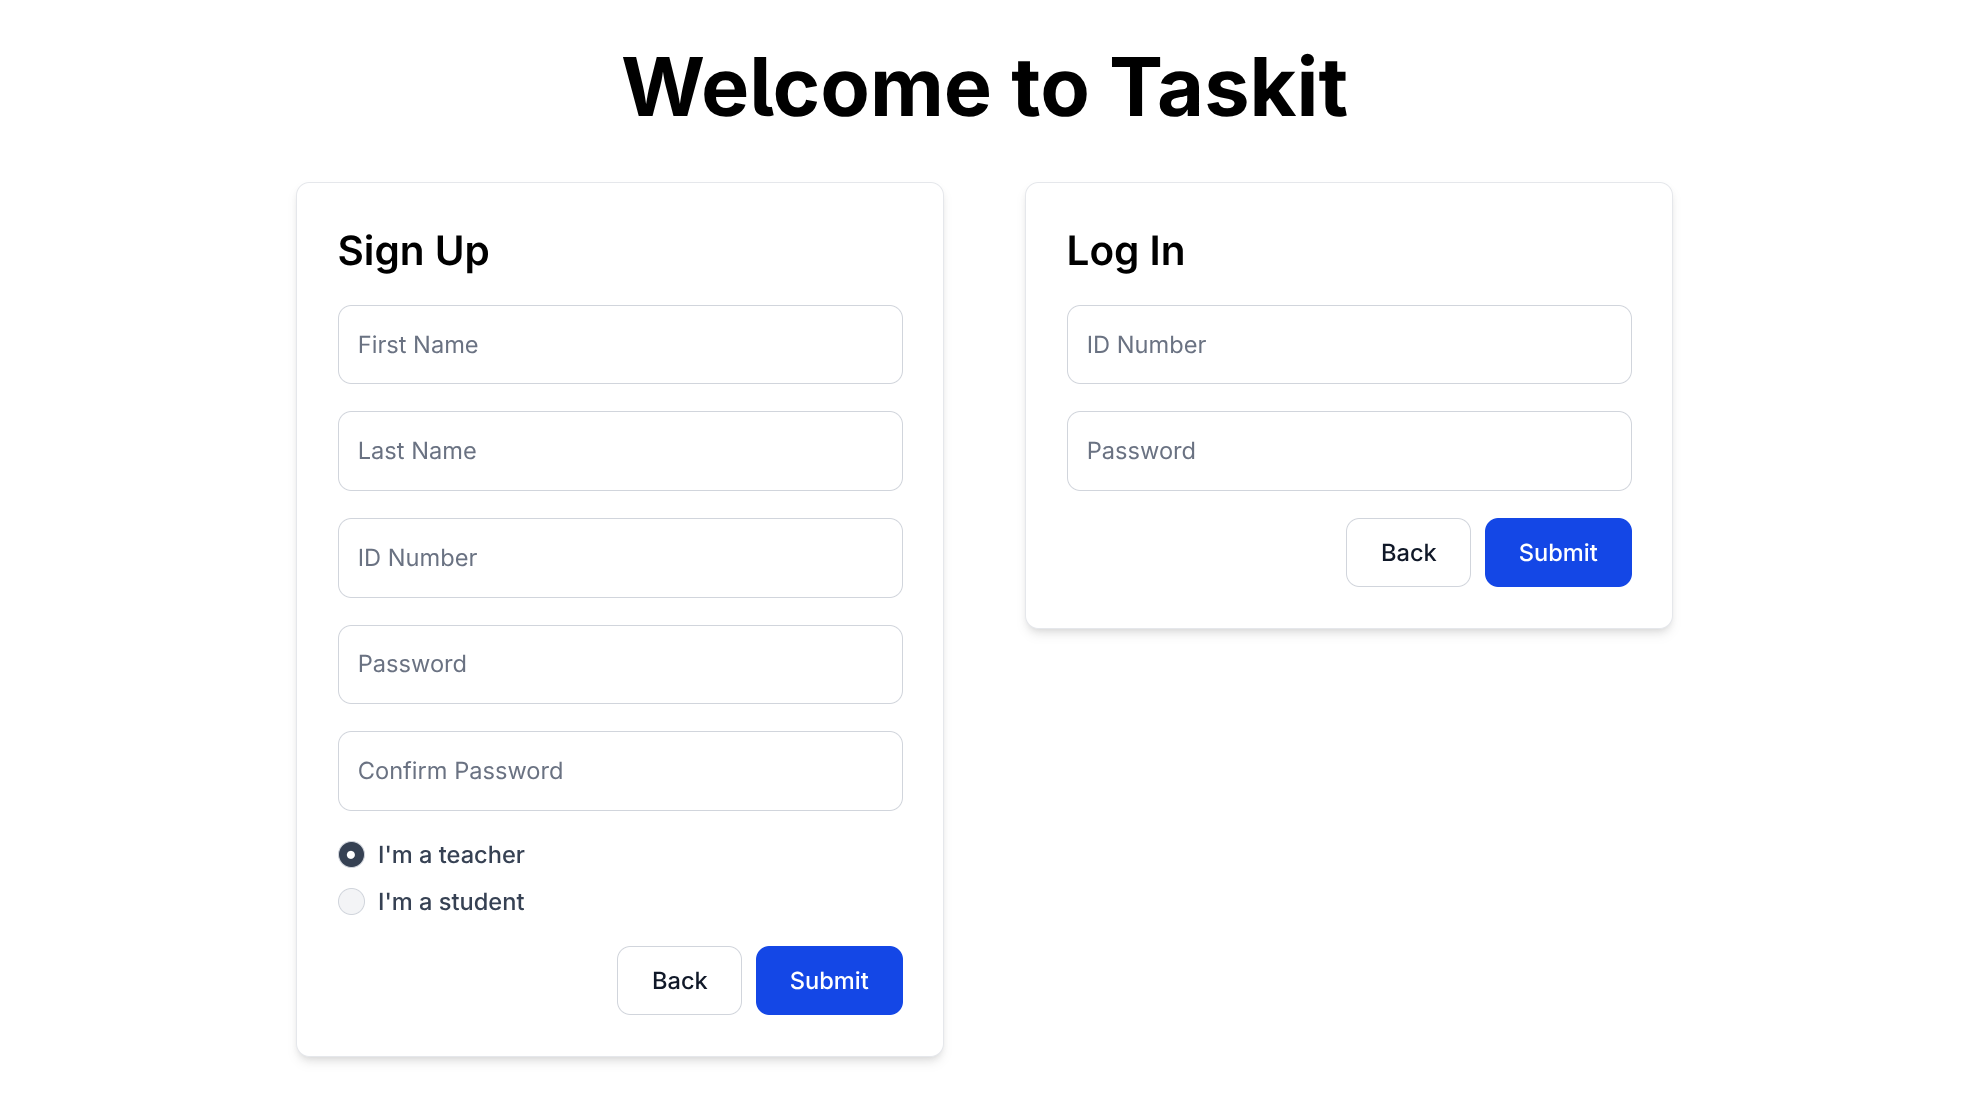
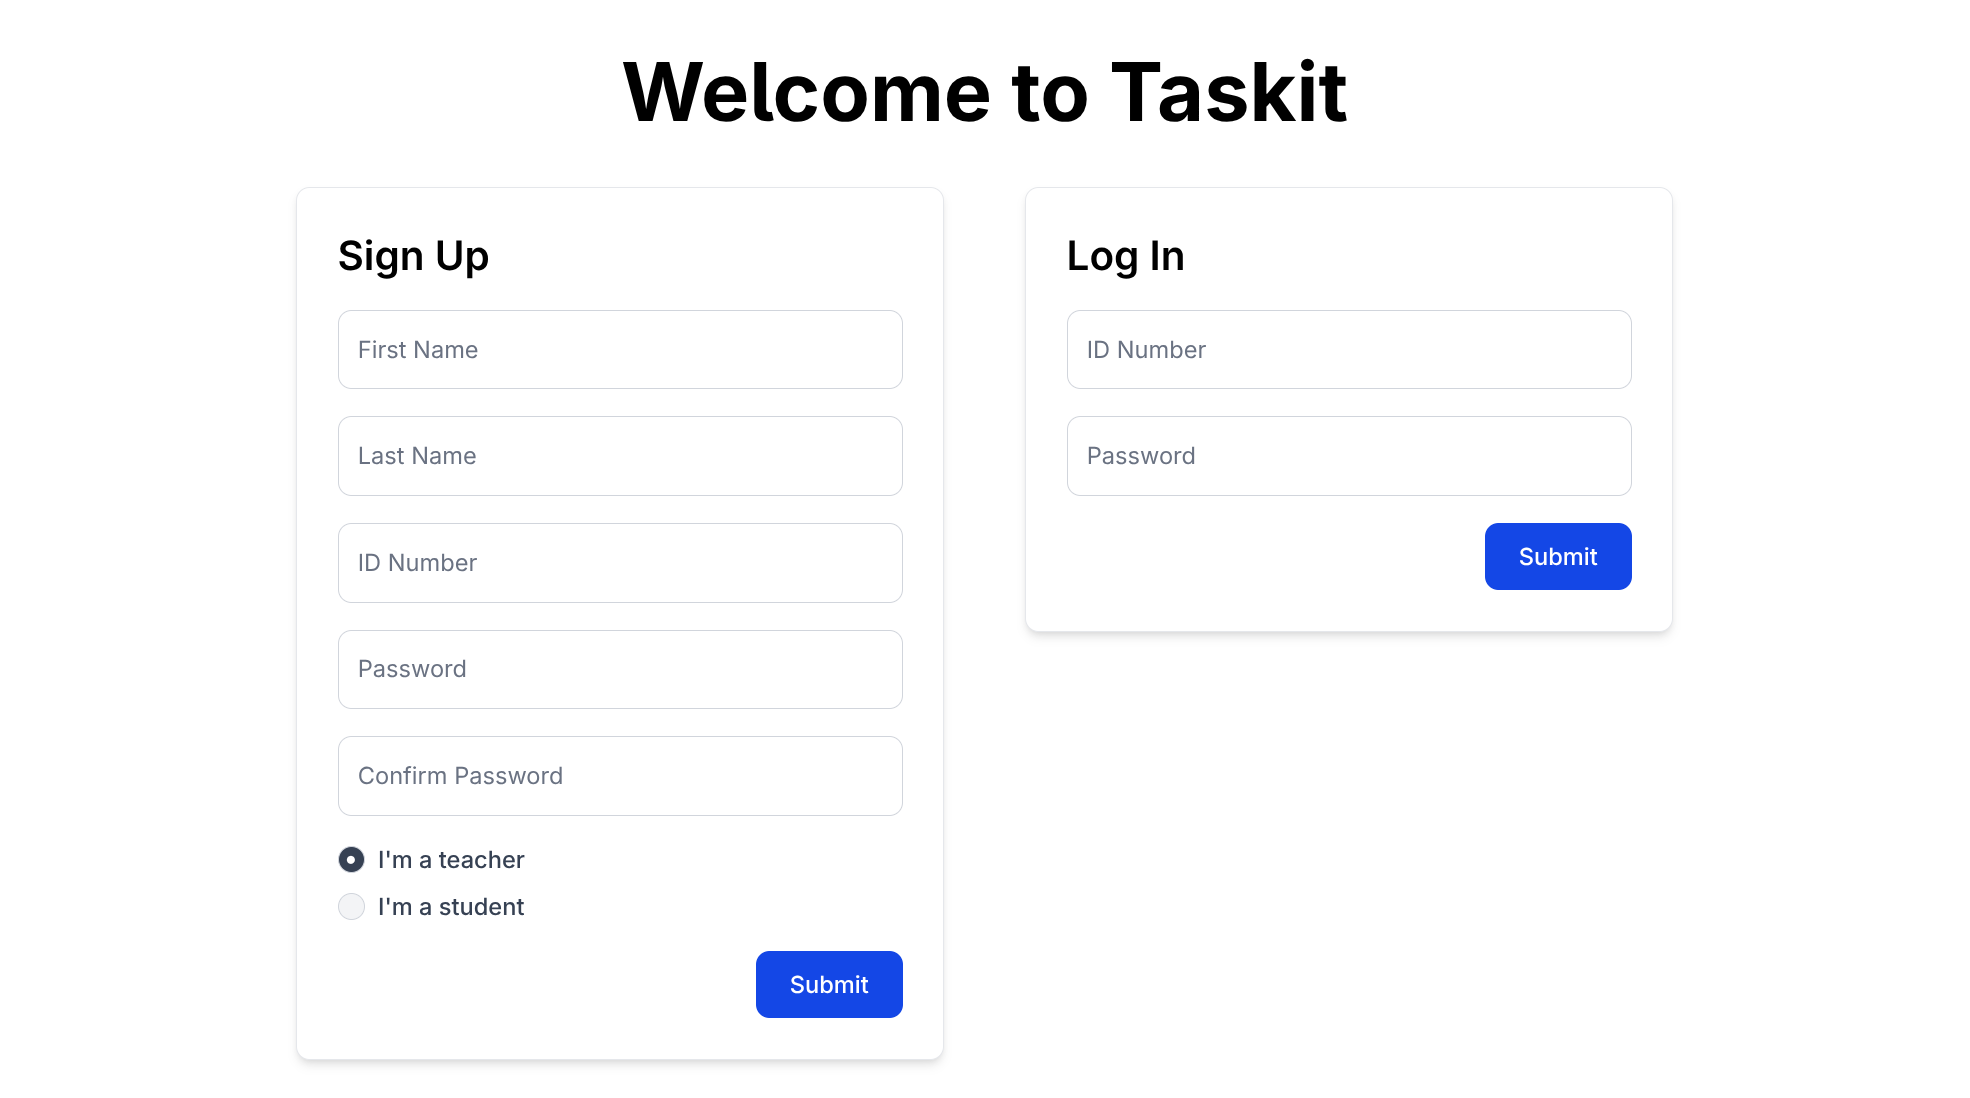
fixed a small oopsie

diff --git a/src/routes/+page.svelte b/src/routes/+page.svelte
@@ -69,7 +69,6 @@
             >
           </div>
           <div class="flex justify-end gap-2">
-            <Button color="light" href="/">Back</Button>
             <Button color="blue" type="submit">Submit</Button>
           </div>
         </Card>
@@ -98,7 +97,6 @@
             Password
           </FloatingLabelInput>
           <div class="flex justify-end gap-2">
-            <Button color="light" href="/">Back</Button>
             <Button color="blue" type="submit">Submit</Button>
           </div>
         </Card>
